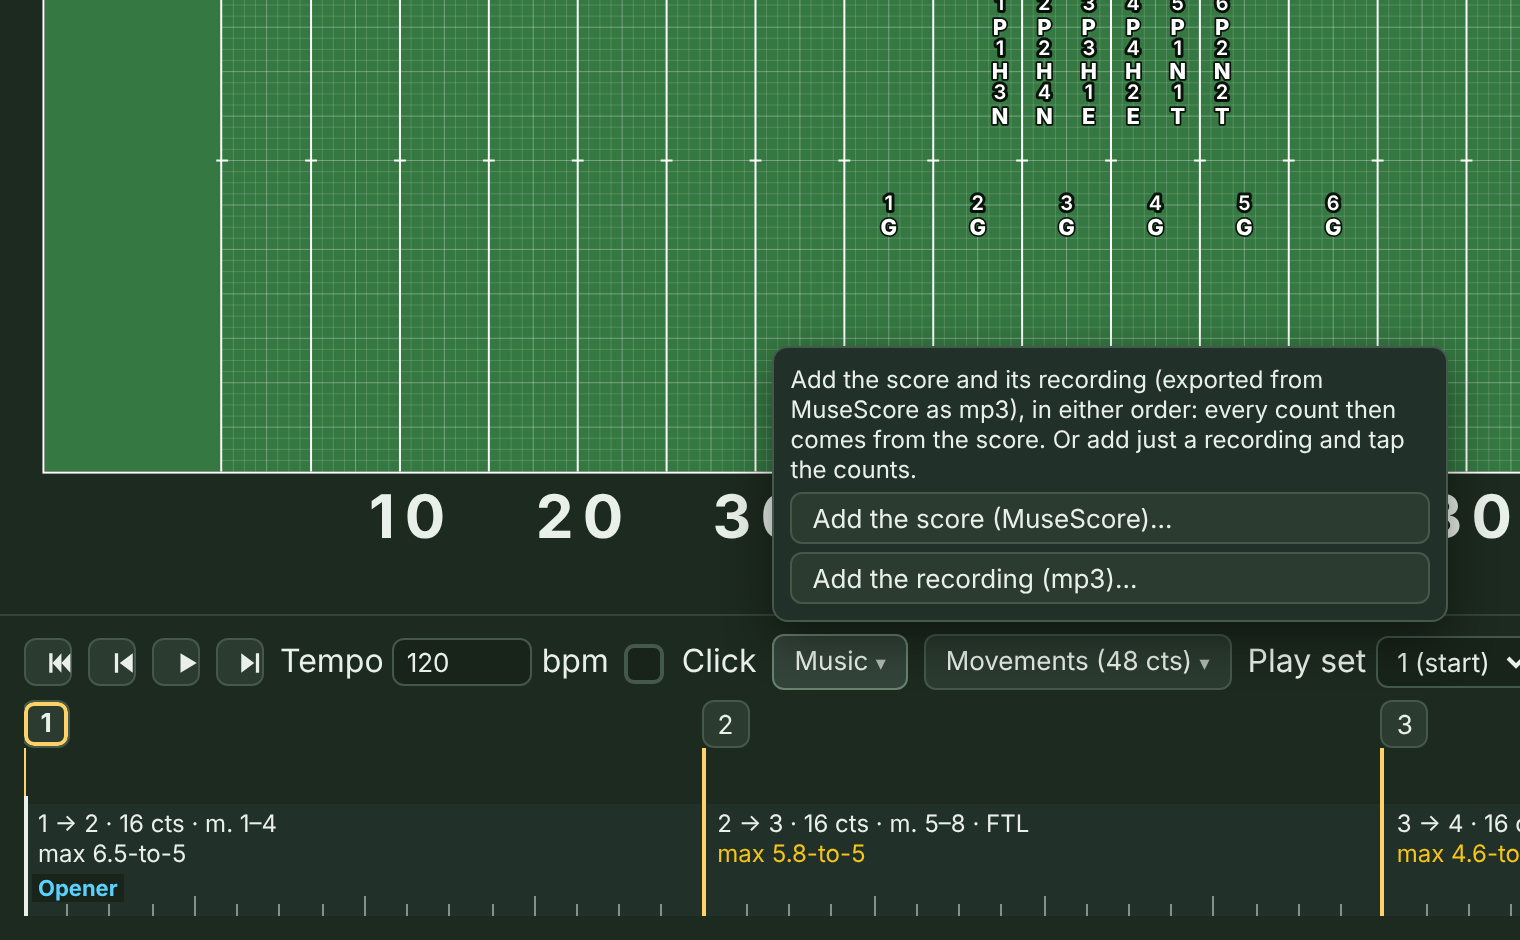
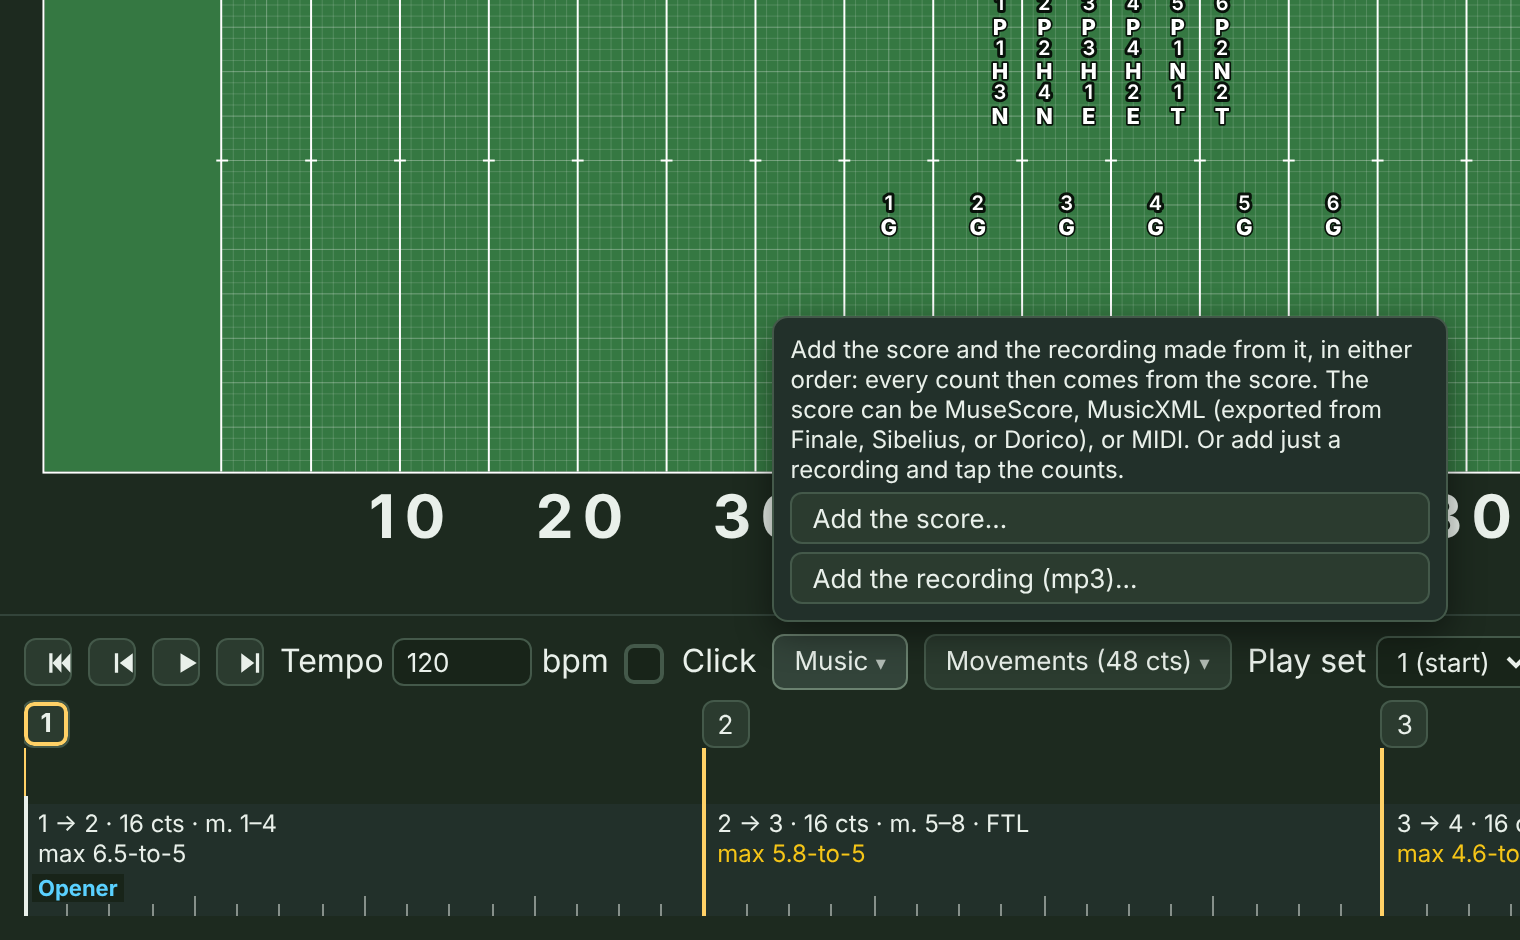
Music: "Add the score…" names MusicXML, not just MuseScore
The score button said "Add the score (MuseScore)…" and only its hover tip
(which phones don't show) listed MusicXML, .mxl, and MIDI. The button is now
"Add the score…", and the hint names MuseScore, MusicXML (exported from
Finale, Sibelius, or Dorico), or MIDI. Guide, README, and screenshot updated.

Claude-Session: https://claude.ai/code/session_012ak5ZTRmDHjorMPFJadTSs

Changed region(s): [[0.4947, 0.3085, 0.9586, 0.5862]]

diff --git a/src/ui/Music.tsx b/src/ui/Music.tsx
@@ -77,12 +77,12 @@ export function MusicMenu({ show, setShow, audio, onAudio, useMusic, setUseMusic
     <>
       <Menu label={label} pressed={!!(m && synced(m) && useMusic && audio)} title="Play the drill with the show's recording">
         {(close) => <>
-          {!m && <p style={{ margin: 0, fontSize: 12, maxWidth: 320 }}>Add the score and its recording (exported from MuseScore as mp3), in either order: every count then comes from the score. Or add just a recording and tap the counts.</p>}
+          {!m && <p style={{ margin: 0, fontSize: 12, maxWidth: 320 }}>Add the score and the recording made from it, in either order: every count then comes from the score. The score can be MuseScore, MusicXML (exported from Finale, Sibelius, or Dorico), or MIDI. Or add just a recording and tap the counts.</p>}
           {m && <p style={{ margin: 0, fontSize: 12 }}><strong>{m.name}</strong><br />
             {m.taps.length ? `${m.taps.length} of ${total + 1} counts placed${m.taps.length < total + 1 ? '; later counts keep the last pace' : ''}.` : 'No counts yet: add the score, or tap them.'}</p>}
           {m && !audio && <p role="alert" style={{ margin: 0, fontSize: 12, color: 'var(--warn)' }}>The recording isn't in this browser. Add {m.name} again to hear it.</p>}
           <button onClick={() => scoreFile.current?.click()} title="The score the recording was rendered from: MuseScore (.mscz), MusicXML, .mxl, or MIDI. Each set's counts are placed in the measures typed for it.">
-            {done(!!score)}{score ? `Score: ${score.name}` : m?.taps.length ? 'Add the score again…' : 'Add the score (MuseScore)…'}</button>
+            {done(!!score)}{score ? `Score: ${score.name}` : m?.taps.length ? 'Add the score again…' : 'Add the score…'}</button>
           <button onClick={() => file.current?.click()}>{done(!!m && !!audio)}{m ? 'Replace the recording…' : 'Add the recording (mp3)…'}</button>
           {m && <button disabled={!audio} onClick={() => { setTapping(true); close(); }}>Tap counts…</button>}
           {m && synced(m) && <label style={{ fontSize: 13 }}><input type="checkbox" checked={useMusic} onChange={(e) => setUseMusic(e.target.checked)} /> Play with music (off: use Tempo)</label>}

diff --git a/DECISIONS.md b/DECISIONS.md
@@ -1670,3 +1670,9 @@ Each entry: timestamp, who decided, context, options considered, decision.
 - **Context:** The README fell behind even though the house rules say to update it. Its roadmap repeated PLAN.md and kept an item PLAN had ticked off (the upload service), and its code map missed folders added in a big change (`src/i18n/`, `es/`).
 - **Other options:** a once-a-month review that opens a PR when the README is off (not now; easy to add); a checkbox on pull requests (gets checked without reading); a test for the feature list (no test can tell whether a sentence describes the app).
 - **Decision:** The README's roadmap is now one line pointing to PLAN.md, so there's only one copy to keep current. A new test, `src/engine/readme.test.ts`, fails if a folder in the repo (or in `src/`) is missing from the code map, or if a path the map lists doesn't exist. CLAUDE.md says both. The feature list stays a short summary, with the detail in the How-to guide.
+
+## 2026-11-12 21:50 EST: "Add the score…" names MusicXML, not just MuseScore
+- **Who:** Jason Tiller asked for the relabel; the wording is Claude's *(Jason can veto)*.
+- **Context:** FreeFORM has read MusicXML, `.mxl`, and MIDI since 2026-11-02, but the Music menu's button said **Add the score (MuseScore)…** and its hint said the recording was "exported from MuseScore." Only the button's hover tip listed the other formats, and phones and tablets don't show hover tips, so Finale, Sibelius, and Dorico users had no way to know their exports work.
+- **Other options:** list every format on the button (too long for the menu); "Add the score (MuseScore or MusicXML)…" (still leaves out MIDI and doesn't say MusicXML is what the other programs export).
+- **Decision:** The button is now **Add the score…**, and the hint under it says the score can be MuseScore, MusicXML (exported from Finale, Sibelius, or Dorico), or MIDI. The hint also says the recording should be "made from" the score rather than "exported from MuseScore." The guide's "easy way" steps and the README's feature line say the same.

diff --git a/docs/HOW-TO.md b/docs/HOW-TO.md
@@ -376,10 +376,10 @@ The play controls are at the left end of the timeline: back to the start, back o
 
 FreeFORM can play your drill along with the recording, so the moves line up with the music the way they will on the field.
 
-**The easy way, with MuseScore:**
+**The easy way, from your notation program:**
 
-1. In MuseScore, export the score as audio (mp3).
-2. In FreeFORM, open **Music** (beside Tempo) and click **Add the score (MuseScore)…**. Choose the `.mscz` file (MusicXML, `.mxl`, and MIDI work too).
+1. In your notation program, export the score as audio (mp3).
+2. In FreeFORM, open **Music** (beside Tempo) and click **Add the score…**. From MuseScore, choose the `.mscz` file. From Finale, Sibelius, or Dorico, export the score as MusicXML first and choose that (`.musicxml`, `.xml`, or `.mxl`). MIDI works too.
 3. Click **Add the recording (mp3)…** and choose the mp3 you exported.
 
 You can do steps 2 and 3 in either order. Once both are in, FreeFORM takes the time of every count from the score, including meter changes, tempo marks, and fermatas, and places each set's counts in the measures you typed for it. It warns you if the recording's length doesn't match the score (usually a sign you picked the wrong file). Bars that no set covers, like a G.P. or an intro, get a hold sub-set (4A) so everyone stands still through them.

diff --git a/README.md b/README.md
@@ -50,7 +50,7 @@ A note on where the ideas came from: FreeFORM is modeled on Pyware and the Ultim
 **Timing and music**
 - A timeline you can scrub count by count, play at any tempo (with a click if you like, on the computer or the phone), or loop over a range of sets.
 - Lay out a show by counts first (one movement per tune), then add sets at any count.
-- Sync to a recording: take every count's timing from the MuseScore score (or MusicXML or MIDI), or tap the counts along with any mp3.
+- Sync to a recording: take every count's timing from the score (MuseScore, MusicXML from Finale, Sibelius, or Dorico, or MIDI), or tap the counts along with any mp3.
 
 **Getting it to the band**
 - Dot sheets (four cards per page, one per page with a notes column, or one per page with a small field picture for each set, like a dot book) and drill charts (one per set, with or without the paths into it), printed or saved as PDF, for the whole show or a range of sets.
